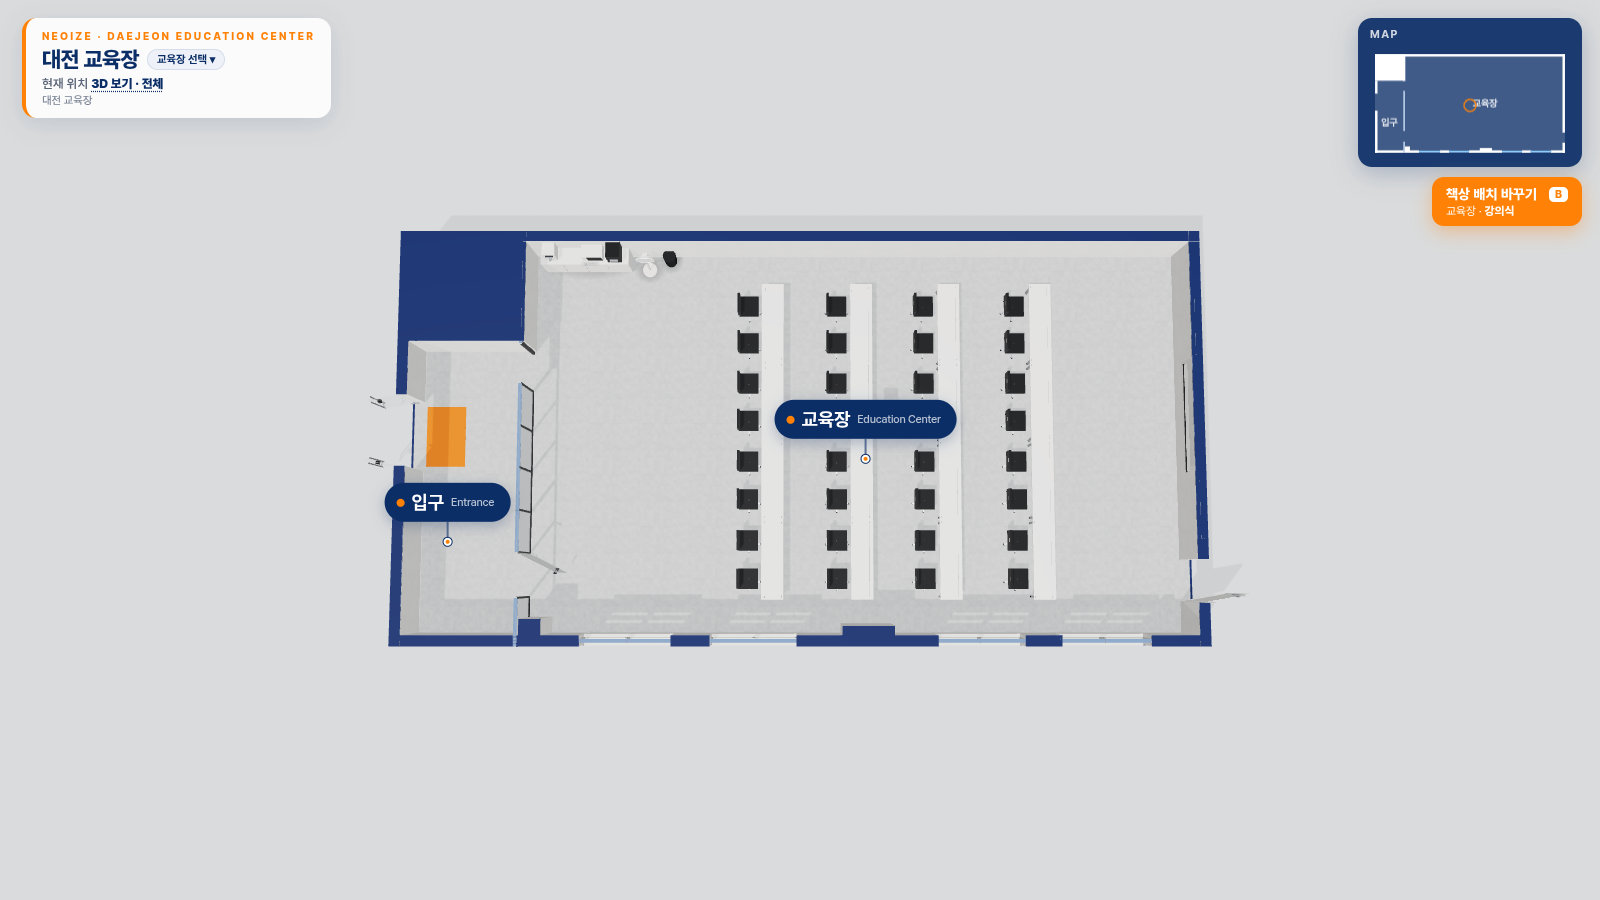
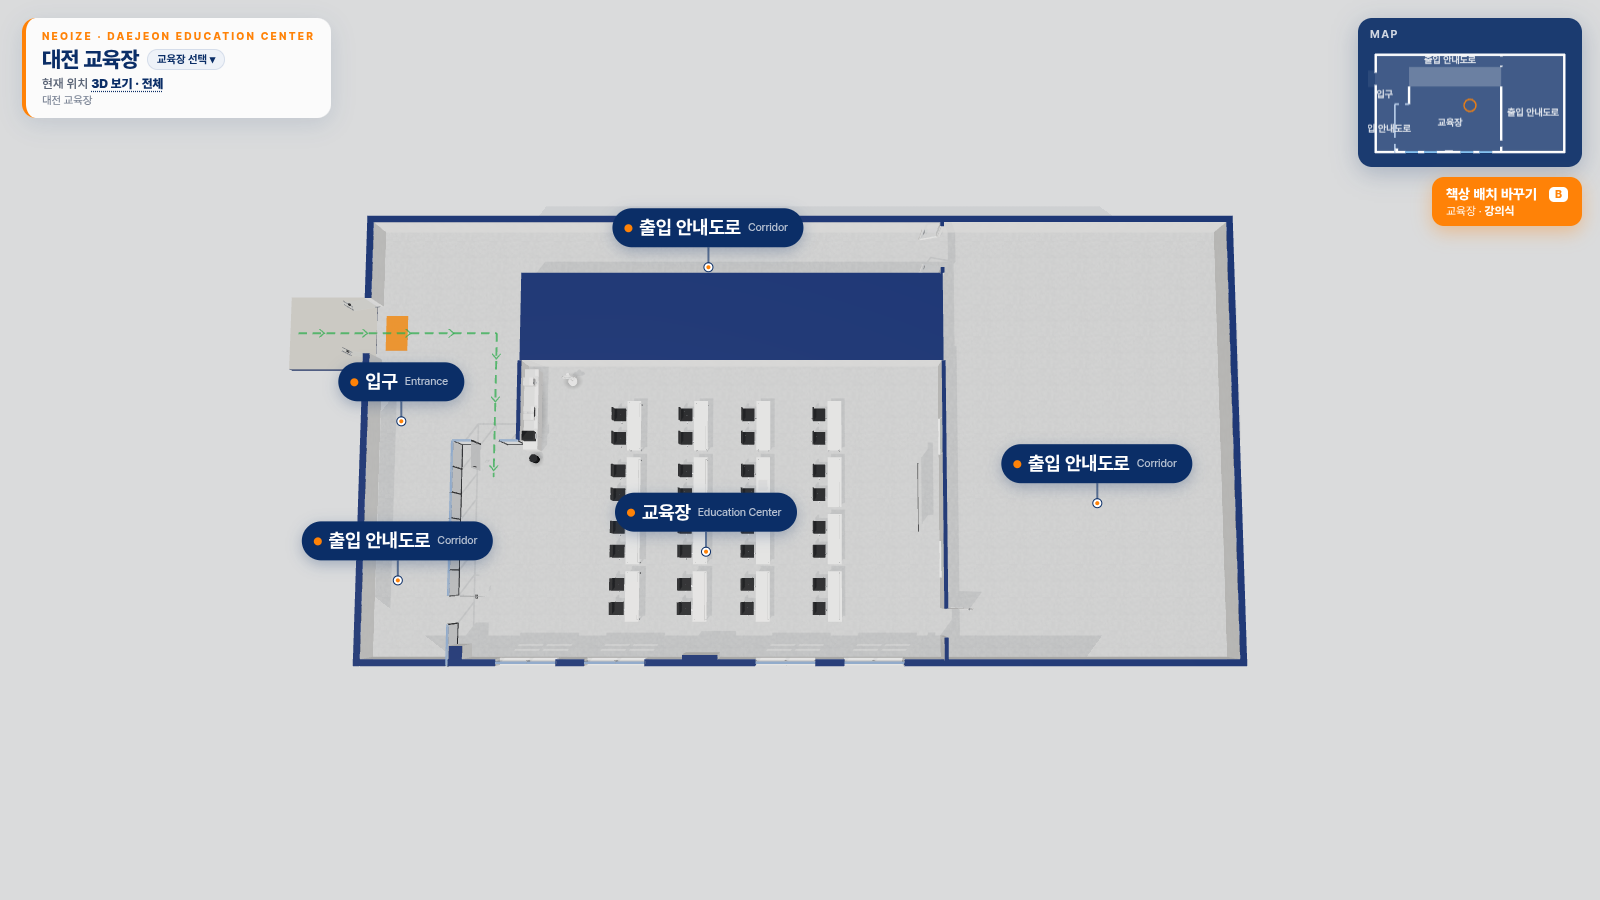
대전 교육장 도면 전체 구현: 건물 외곽·출입 안내도로·다른 공간 블록, L자 교육장, 입구 동선(초록 점선), 북서쪽 정수기·제빙기·커피머신, 책상 4열, 문 5개

Changed region(s): [[0.1562, 0.2178, 0.7812, 0.7467], [0.8438, 0.0622, 0.9688, 0.1867]]

diff --git a/sites/daejeon/layout.js b/sites/daejeon/layout.js
@@ -1,73 +1,97 @@
 /* =====================================================================
    대전 교육장 — 공간 설정 파일 (sites/daejeon/layout.js)
-   사용자 스케치(11/19) 기준: 책상 1.8m ≈ 36px → 약 0.05 m/px.
-   기준점(0,0) = 스케치 px (122, 147). x = 동쪽, z = 남쪽, 단위 m. rot: 0 = 북쪽, 90 = 서쪽, 180 = 남쪽, -90 = 동쪽.
-   - 교육장(빨간 선): x 2.75–17.95, z 0–9.25 (15.2 × 9.25m, 천장 2.7m)
-   - 입구·통로(흰 선, 교육장 서쪽): x 0–2.75, z 2.5–9.25 — 투어는 여기서 시작, 서쪽 벽 문으로 교육장에 들어감
-   - 스크린은 동쪽 벽 → 책상은 동쪽을 바라봄
-   ※ 치수는 스케치 비율로 잡은 추정값이에요. 실측값을 받으면 숫자만 바꾸면 됩니다.
+   사용자 도면(11/19, 534×277px) 기준: 교육장 윗부분 px x153–348 = 15.2m → 0.078 m/px.
+   기준점(0,0) = 도면 px (81, 23) = 건물 북서쪽 모서리. x = 동쪽, z = 남쪽, 단위 m.
+   rot: 0 = 북쪽, 90 = 서쪽, 180 = 남쪽, -90 = 동쪽.  (px → m: x=(px-81)*0.078, z=(py-23)*0.078)
+   - 건물 전체: 31.36 × 16.15m (px x81–483, y23–230), 천장 2.7m
+   - 교육장(빨간 선, L자): 윗부분 x5.62–20.83 z5.30–8.19 + 아랫부분 x3.28–20.83 z8.19–16.15
+   - 출입 안내도로(복도): 북쪽 띠 z0–5.30, 서쪽 x0–3.28, 동쪽 x20.83–31.36
+   - 북쪽 띠 안의 흰 상자(px x153–348, y50–91) = 다른 공간(투어 제외) → columns 의 label 블록
+   - 입구: 서쪽 바깥벽 z3.05–5.05 유리 양문 → 동쪽으로 x4.45 → 남쪽으로 교육장 북서쪽 문(z8.19)
+   ※ 도면 비율로 잡은 추정값이에요. 실측값을 받으면 숫자만 바꾸면 됩니다.
    ===================================================================== */
 window.LAYOUT = {
-  building: { name: '대전 교육장', width: 17.95, depth: 9.25, ceiling: 2.7, eye: 1.6, wall: { exterior: 0.24, interior: 0.14, thick: 0.30 } },
+  building: { name: '대전 교육장', width: 31.36, depth: 16.15, ceiling: 2.7, eye: 1.6, wall: { exterior: 0.24, interior: 0.14, thick: 0.30 } },
   photoDir: 'sites/daejeon/photos/',
 
+  // 건물 밖(입구 앞) 걸을 수 있는 바닥 — 도면의 점선 '경로'가 바깥(px x55)에서 들어옴
+  outside: [ [-3.2, 2.7, 0, 5.4] ],
+
   rooms: [
-    { id:'entrance', name:'입구', en:'Entrance', small:true, rect:[0, 2.5, 2.75, 9.25], floor:'floor',
-      label:[1.375, 6.4], jump:{ x:1.0, z:4.6, look:[2.75, 8.0] },
-      card:{ photos:[], desc:'대전 교육장 입구와 통로예요. 통로 오른쪽(동쪽) 유리 파티션의 문으로 교육장에 들어가요.' } },
-    { id:'classroom', name:'교육장', en:'Education Center', rect:[2.75, 0, 17.95, 9.25], floor:'floor',
-      label:[10.4, 4.6], jump:{ x:4.2, z:7.75, look:[17.9, 4.2] },
+    { id:'classroom', name:'교육장', en:'Education Center', rect:[3.28, 8.19, 20.83, 16.15], rects:[[5.62, 5.30, 20.83, 8.19]], floor:'floor',
+      label:[12.4, 11.2], jump:{ x:7.4, z:13.4, look:[19.9, 10.2] },
       card:{ photos:[],
-             desc:'대전 교육장. 동쪽 벽에 천장형 전동 스크린과 양옆 유리 화이트보드, 천장 빔프로젝터가 있고, 남쪽은 큰 창문이에요. 흰 접이식 책상 4열 × 4개, 메시 등받이 의자. 북서쪽 모서리에 커피머신·정수기가 있는 수납장이 있어요.',
-             services:['전동 스크린','빔프로젝터','유리 화이트보드','스피커','냉난방','커피머신','정수기'] } }
+             desc:'대전 교육장(L자 공간). 동쪽 벽 앞에 천장형 전동 스크린과 양옆 유리 화이트보드, 천장 빔프로젝터가 있고, 남쪽은 큰 창문 4개예요. 흰 접이식 책상 4열 × 4개(32석), 메시 등받이 의자. 북서쪽 벽을 따라 정수기 · 제빙기 · 커피머신이 있어요.',
+             services:['전동 스크린','빔프로젝터','유리 화이트보드','스피커','냉난방','정수기','제빙기','커피머신'] } },
+    { id:'entrance', name:'입구', en:'Entrance', small:true, rect:[0, 2.11, 5.62, 8.19], rects:[[-3.2, 2.7, 0, 5.4]], floor:'floor',
+      label:[1.6, 6.6], jump:{ x:-1.7, z:4.05, look:[4.45, 4.3] },
+      card:{ photos:[], desc:'건물 입구예요. 바닥의 초록 점선(경로)을 따라 동쪽으로 간 뒤 남쪽으로 꺾으면 교육장 북서쪽 문이 있어요.' } },
+    { id:'road_w', name:'출입 안내도로', en:'Corridor', small:true, rect:[0, 8.19, 3.28, 16.15], floor:'floor', label:[1.64, 12.2],
+      jump:{ x:1.6, z:10.0, look:[1.6, 15.0] }, card:{ photos:[], desc:'교육장 서쪽 복도. 동쪽 유리 파티션 문으로 교육장에 들어가요.' } },
+    { id:'road_n', name:'출입 안내도로', en:'Corridor', small:true, rect:[0, 0, 20.83, 2.11], floor:'floor', label:[12.4, 1.05],
+      jump:{ x:6.0, z:1.05, look:[20.0, 1.05] }, card:{ photos:[], desc:'북쪽 복도. 동쪽 끝 문으로 동쪽 복도와 이어져요.' } },
+    { id:'road_e', name:'출입 안내도로', en:'Corridor', small:true, rect:[20.83, 0, 31.36, 16.15], floor:'floor', label:[26.1, 9.5],
+      jump:{ x:22.2, z:14.6, look:[20.83, 14.6] }, card:{ photos:[], desc:'동쪽 복도. 서쪽 벽 남쪽 끝 문으로 교육장에 들어가요.' } }
   ],
 
   start: { mode:'orbit', room:'entrance' },
 
+  // 바닥 동선: 초록 점선 + 화살표 (바깥 → 입구 → 동쪽 → 남쪽 → 교육장 문)
+  route: { color:'#2fa84f', points:[[-2.9, 4.05], [4.45, 4.05], [4.45, 8.19], [4.45, 9.4]] },
+
   walls: [
-    // 바깥벽 — 북쪽 (교육장 구간만, 북서쪽 x0–2.75 는 다른 공간이라 막음 → columns)
-    { from:[2.75, 0], to:[17.95, 0], type:'solid', outer:true },
-    // 바깥벽 — 서쪽(입구 통로): 유리 양문 입구
-    { from:[0, 2.5], to:[0, 9.25], type:'solid', outer:true,
-      openings:[ { at:3.7, width:1.6, door:'glass', double:true, entrance:true, frame:'white' } ] },
-    // 바깥벽 — 남쪽: 초록 = 창문 4개 (흰 프레임 큰 여닫이창)
-    { from:[0, 9.25],     to:[4.15, 9.25],  type:'solid',  outer:true },
-    { from:[4.15, 9.25],  to:[6.15, 9.25],  type:'window', outer:true, style:'tall', sill:0.75, head:2.45, bay:1.0, blind:0 },
-    { from:[6.15, 9.25],  to:[7.0, 9.25],   type:'solid',  outer:true },
-    { from:[7.0, 9.25],   to:[8.9, 9.25],   type:'window', outer:true, style:'tall', sill:0.75, head:2.45, bay:1.0, blind:0 },
-    { from:[8.9, 9.25],   to:[12.0, 9.25],  type:'solid',  outer:true },
-    { from:[12.0, 9.25],  to:[13.9, 9.25],  type:'window', outer:true, style:'tall', sill:0.75, head:2.45, bay:1.0, blind:0 },
-    { from:[13.9, 9.25],  to:[14.7, 9.25],  type:'solid',  outer:true },
-    { from:[14.7, 9.25],  to:[16.65, 9.25], type:'window', outer:true, style:'tall', sill:0.75, head:2.45, bay:1.0, blind:0 },
-    { from:[16.65, 9.25], to:[17.95, 9.25], type:'solid',  outer:true },
-    // 바깥벽 — 동쪽: 스크린 벽, 남쪽 끝에 문
-    { from:[17.95, 0], to:[17.95, 9.25], type:'solid', outer:true,
-      openings:[ { at:7.35, width:0.95, door:'wood', frame:'white', hinge:'end', swing:-80 } ] },
-    // 교육장 서쪽 벽: 북쪽 끝은 벽, 그 아래는 반투명 유리 슬라이딩 파티션(북서쪽 통로 개구부 + 남쪽 끝 문)
-    { from:[2.75, 0], to:[2.75, 2.5], type:'solid' },
-    { from:[2.75, 2.5], to:[2.75, 9.25], type:'glass', style:'band', band:[0.1, 2.3], bay:1.0,
-      openings:[ { at:2.55, width:0.9 },                                             // 북서쪽 개구부(통로 쪽)
-                 { at:7.2, width:1.0, door:'frameless', hinge:'start', swing:88 } ] }  // 교육장 문 (스케치 y285–315): 북쪽 경첩, 교육장 안으로 88° 열려 통로를 막지 않음
+    // 바깥벽
+    { from:[0, 0], to:[31.36, 0], type:'solid', outer:true },
+    { from:[31.36, 0], to:[31.36, 16.15], type:'solid', outer:true },
+    { from:[0, 0], to:[0, 16.15], type:'solid', outer:true,
+      openings:[ { at:3.05, width:2.0, door:'glass', double:true, entrance:true, frame:'white', open:true } ] },   // 입구 (px y62–88)
+    // 남쪽: 초록 = 창문 4개 (px 145–172, 185–212, 262–289, 302–329)
+    { from:[0, 16.15],     to:[4.99, 16.15],  type:'solid',  outer:true },
+    { from:[4.99, 16.15],  to:[7.10, 16.15],  type:'window', outer:true, style:'tall', sill:0.75, head:2.45, bay:1.05, blind:0 },
+    { from:[7.10, 16.15],  to:[8.11, 16.15],  type:'solid',  outer:true },
+    { from:[8.11, 16.15],  to:[10.22, 16.15], type:'window', outer:true, style:'tall', sill:0.75, head:2.45, bay:1.05, blind:0 },
+    { from:[10.22, 16.15], to:[14.12, 16.15], type:'solid',  outer:true },
+    { from:[14.12, 16.15], to:[16.22, 16.15], type:'window', outer:true, style:'tall', sill:0.75, head:2.45, bay:1.05, blind:0 },
+    { from:[16.22, 16.15], to:[17.24, 16.15], type:'solid',  outer:true },
+    { from:[17.24, 16.15], to:[19.34, 16.15], type:'window', outer:true, style:'tall', sill:0.75, head:2.45, bay:1.05, blind:0 },
+    { from:[19.34, 16.15], to:[31.36, 16.15], type:'solid',  outer:true },
+
+    // 북쪽 복도 동쪽 끝 문 (px x345, y28–50)
+    { from:[20.83, 0], to:[20.83, 2.11], type:'solid',
+      openings:[ { at:0.4, width:1.5, door:'glass', double:true, frame:'white' } ] },
+    // 교육장 윗부분 서쪽 벽 (정수기·제빙기·커피머신이 붙는 벽)
+    { from:[5.62, 5.30], to:[5.62, 8.19], type:'solid' },
+    // L자 꺾인 곳의 북쪽 벽 = 교육장 북서쪽 문 (입구 경로 끝, px x123–150)
+    { from:[3.28, 8.19], to:[5.62, 8.19], type:'glass', style:'band', band:[0.1, 2.3], bay:1.0,
+      openings:[ { at:3.95, width:1.0, door:'frameless', hinge:'start', swing:-88 } ] },
+    // 아랫부분 서쪽 벽: 반투명 유리 파티션 + 서쪽 복도 문 (px y193–217)
+    { from:[3.28, 8.19], to:[3.28, 16.15], type:'glass', style:'band', band:[0.1, 2.3], bay:1.0,
+      openings:[ { at:13.7, width:1.0, door:'frameless', hinge:'start', swing:88 } ] },
+    // 동쪽 벽 + 동쪽 복도 문 (px y200–222) — 복도 쪽으로 열림
+    { from:[20.83, 5.30], to:[20.83, 16.15], type:'solid',
+      openings:[ { at:14.15, width:1.0, door:'wood', frame:'white', hinge:'start', swing:88 } ] }
   ],
 
-  // 막힌 덩어리: 북서쪽 다른 공간, 남쪽 벽 흰 기둥, 남서쪽 모서리 흰 사각 기둥
+  // 막힌 덩어리: 북쪽 띠 안의 다른 공간(투어 제외), 남쪽 벽 흰 기둥, 남서쪽 모서리 흰 사각 기둥
   columns: [
-    { rect:[0, 0, 2.75, 2.5] },
-    { rect:[9.9, 8.8, 11.05, 9.13] },
-    { rect:[2.82, 8.65, 3.3, 9.13] }
+    { rect:[5.62, 2.11, 20.83, 5.30], block:true },   // 다른 공간(투어 제외)
+    { rect:[11.54, 15.75, 12.79, 16.03] },
+    { rect:[3.35, 15.44, 3.82, 16.03] }
   ],
 
   ceiling: {
-    panels: [ { rect:[2.75, 0, 17.95, 9.25], nx:6, nz:3 }, { rect:[0, 2.5, 2.75, 9.25], nx:1, nz:2 } ],   // 사각 매입 LED 패널
+    panels: [ { rect:[3.28, 8.19, 20.83, 16.15], nx:7, nz:3 }, { rect:[5.62, 5.30, 20.83, 8.19], nx:6, nz:1 },
+              { rect:[0, 2.11, 5.62, 8.19], nx:2, nz:2 }, { rect:[0, 8.19, 3.28, 16.15], nx:1, nz:3 },
+              { rect:[0, 0, 20.83, 2.11], nx:7, nz:1 }, { rect:[20.83, 0, 31.36, 16.15], nx:3, nz:5 } ],
     strips: [],
-    projectors: [ { x:10.6, z:4.2, aim:[17.6, 4.2], drop:0.3, color:'white', label:'빔프로젝트' } ],
+    projectors: [ { x:14.0, z:10.2, aim:[19.9, 10.2], drop:0.3, color:'white', label:'빔프로젝트' } ],
     downlights: [],
-    aircon: [[6.6, 4.6, 0.9], [13.6, 4.6, 0.9]]   // 천장 카세트 에어컨 2대
+    aircon: [[10.8, 10.2, 0.9], [16.9, 12.6, 0.9]]
   },
 
   speakers: [   // 스크린 쪽 양옆 벽(북·남) 높은 곳
-    { x:16.9, z:0.24, rot:180 },
-    { x:16.9, z:9.01, rot:0 }
+    { x:19.9, z:5.42, rot:180 },
+    { x:19.9, z:15.91, rot:0 }
   ],
 
   /* 교육장 책상 배치 (책상 배치 바꾸기 버튼 / B 키). 스크린이 동쪽이라 책상은 rot:-90(동쪽을 봄) */
@@ -75,44 +99,44 @@ window.LAYOUT = {
     start: 0,
     list: [
       { id:'lecture', name:'강의식', items:[
-        // 스케치: 4열 × 흰 접이식 책상 4개(1.8×0.5m) 이어 붙임, 책상마다 의자 2개(서쪽에서 동쪽을 봄) = 32석
-        { type:'array', xs:[8.35, 10.375, 12.375, 14.475], zs:[1.95, 3.75, 5.55, 7.35],
+        // 도면: 4열(px x200–210, 231–241, 260–270, 293–303) × 책상 4개(px y107–212), 책상마다 의자 2개(동쪽을 봄) = 32석
+        { type:'array', xs:[9.67, 12.09, 14.35, 16.93], zs:[7.58, 9.63, 11.68, 13.73],
           item:{ type:'deskPair', w:1.8, d:0.5, chairs:2, casters:true, tag:true, chairBase:'silver', rot:-90 } }
       ] },
       { id:'group', name:'조별', items:[
-        // 책상 2개를 붙인 섬(긴 변이 스크린 방향), 양쪽에 2명씩 = 9섬 × 4명 = 36석
-        { type:'array', xs:[6.9, 10.0, 13.1], zs:[2.0, 4.6, 7.2], item:{ type:'island', len:1.8, dd:0.5, perSide:2, basket:true, tents:true, rot:90 } }
+        { type:'array', xs:[9.0, 12.2, 15.4], zs:[7.4, 10.0, 12.6], item:{ type:'island', len:1.8, dd:0.5, perSide:2, basket:true, tents:true, rot:90 } }
       ] }
     ]
   },
 
   /* 장비 안내(마우스를 올리면 안내 카드) — '(예: …) — 수정 필요' 는 예시 문구예요 */
   equipment: [
-    { id:'dj_projector', name:'빔프로젝트', room:'교육장', box:[10.3, 3.9, 10.9, 4.5, 2.15, 2.7],
+    { id:'dj_projector', name:'빔프로젝트', room:'교육장', box:[13.7, 9.9, 14.3, 10.5, 2.15, 2.7],
       lines:['연결 케이블: (예: HDMI) — 수정 필요', '리모컨 위치: (예: 수납장 위) — 수정 필요', '사용 방법: (예: 전원 → 입력 선택) — 수정 필요'] },
-    { id:'dj_screen', name:'전동 스크린', room:'교육장', box:[17.4, 2.9, 17.8, 5.5, 1.05, 2.7], lines:['내리기/올리기: (예: 벽 스위치) — 수정 필요'] },
-    { id:'dj_board', name:'유리 화이트보드', room:'교육장', boxes:[[17.65, 1.4, 17.86, 2.9, 0.8, 2.2], [17.65, 5.5, 17.86, 7.0, 0.8, 2.2]], lines:['마커·지우개: (예: 레지 위 비치) — 수정 필요'] },
-    { id:'dj_speaker', name:'스피커', room:'교육장', boxes:[[16.6, 0.1, 17.2, 0.5, 2.2, 2.7], [16.6, 8.75, 17.2, 9.15, 2.2, 2.7]], lines:['음량 조절: (예: 앰프 위치) — 수정 필요', '마이크: (예: 무선 마이크) — 수정 필요'] },
-    { id:'dj_ac', name:'에어컨', room:'교육장', boxes:[[6.1, 4.1, 7.1, 5.1, 2.5, 2.75], [13.1, 4.1, 14.1, 5.1, 2.5, 2.75]], lines:['리모컨/조작: (예: 벽 컨트롤러) — 수정 필요'] },
-    { id:'dj_coffee', name:'커피머신', room:'교육장', box:[4.58, 0.12, 4.92, 0.64, 0.85, 1.42], label:true, labelAt:[4.75, 1.5, 0.72], lines:['사용 방법: (예: 컵 올리고 버튼) — 수정 필요'] },
-    { id:'dj_ice', name:'얼음/전자레인지', room:'교육장', box:[4.0, 0.12, 4.5, 0.64, 0.85, 1.2], label:true, labelAt:[4.25, 1.3, 0.72], lines:['사용 방법: 예시 — 수정 필요'] },
-    { id:'dj_water', name:'정수기', room:'교육장', box:[3.15, 0.12, 3.45, 0.64, 0.85, 1.4], label:true, labelAt:[3.3, 1.5, 0.72], lines:['냉수·온수: (예: 온수 잠금 버튼) — 수정 필요'] },
-    { id:'dj_clock', name:'디지털 시계', room:'교육장', box:[3.8, 0.1, 4.3, 0.2, 1.85, 2.15], lines:['수납장 위 벽 LED 시계'] }
+    { id:'dj_screen', name:'스크린', room:'교육장', box:[19.75, 8.95, 20.05, 11.45, 1.05, 2.7], label:true, labelAt:[19.9, 2.62, 10.2], lines:['전동 스크린 내리기/올리기: (예: 벽 스위치) — 수정 필요'] },
+    { id:'dj_board', name:'유리 화이트보드', room:'교육장', boxes:[[20.6, 7.3, 20.8, 8.7, 0.8, 2.2], [20.6, 11.7, 20.8, 13.1, 0.8, 2.2]], lines:['마커·지우개: (예: 레지 위 비치) — 수정 필요'] },
+    { id:'dj_speaker', name:'스피커', room:'교육장', boxes:[[19.6, 5.3, 20.2, 5.7, 2.2, 2.7], [19.6, 15.63, 20.2, 16.03, 2.2, 2.7]], lines:['음량 조절: (예: 앰프 위치) — 수정 필요', '마이크: (예: 무선 마이크) — 수정 필요'] },
+    { id:'dj_ac', name:'에어컨', room:'교육장', boxes:[[10.3, 9.7, 11.3, 10.7, 2.5, 2.75], [16.4, 12.1, 17.4, 13.1, 2.5, 2.75]], lines:['리모컨/조작: (예: 벽 컨트롤러) — 수정 필요'] },
+    // 북서쪽 벽(px x157–170)을 따라 북 → 남: 정수기(y95–106) · 제빙기(y110–120) · 커피머신(y120–131)
+    { id:'dj_water', name:'정수기', room:'교육장', box:[5.74, 5.89, 6.16, 6.21, 0.85, 1.4], label:true, labelAt:[5.95, 1.5, 6.05], lines:['냉수·온수: (예: 온수 잠금 버튼) — 수정 필요'] },
+    { id:'dj_ice', name:'제빙기', room:'교육장', box:[5.74, 6.92, 6.16, 7.44, 0.85, 1.2], label:true, labelAt:[5.95, 1.3, 7.18], lines:['사용 방법: (예: 스쿱은 옆 걸이) — 수정 필요'] },
+    { id:'dj_coffee', name:'커피머신', room:'교육장', box:[5.72, 7.82, 6.18, 8.18, 0.85, 1.42], label:true, labelAt:[5.95, 1.5, 8.0], lines:['사용 방법: (예: 컵 올리고 버튼) — 수정 필요'] },
+    { id:'dj_clock', name:'디지털 시계', room:'교육장', box:[5.69, 6.75, 5.82, 7.25, 1.85, 2.15], lines:['수납장 위 벽 LED 시계'] }
   ],
 
   furniture: [
-    /* --- 스크린 벽(동쪽): 천장형 전동 스크린 + 양옆 작은 유리 화이트보드 --- */
-    { type:'ceilingScreen', x:17.6, z:4.2, w:2.4, h:1.45, rot:90 },
-    { type:'whiteboard', x:17.81, z:2.15, w:1.3, rot:90, style:'glass' },
-    { type:'whiteboard', x:17.81, z:6.25, w:1.3, rot:90, style:'glass' },
+    /* --- 스크린(동쪽 벽 앞, 도면 px x333–339): 천장형 전동 스크린 + 벽의 유리 화이트보드 2개 --- */
+    { type:'ceilingScreen', x:19.9, z:10.2, w:2.4, h:1.45, rot:90 },
+    { type:'whiteboard', x:20.74, z:8.0, w:1.3, rot:90, style:'glass' },
+    { type:'whiteboard', x:20.74, z:12.4, w:1.3, rot:90, style:'glass' },
 
-    /* --- 북서쪽 모서리: 흰 낮은 수납장(커피머신·얼음/전자레인지·정수기) + LED 시계 + 선풍기 + 휴지통 --- */
-    { type:'coffeeCabinet', x:4.05, z:0.37, w:2.0, rot:180 },
-    { type:'ledClock', x:4.05, z:0.13, y:1.85, rot:180 },
-    { type:'standFan', x:5.45, z:0.55, rot:180 },
-    { type:'bin', x:5.95, z:0.35 },
+    /* --- 북서쪽 벽 수납장: 북 → 남 정수기 · 제빙기 · 커피머신 (앞면이 동쪽) + LED 시계 + 선풍기 + 휴지통 --- */
+    { type:'coffeeCabinet', x:5.95, z:7.0, w:2.9, rot:-90, waterAt:-0.95, iceAt:0.18, coffeeAt:1.0 },
+    { type:'ledClock', x:5.71, z:7.0, y:1.85, rot:-90 },
+    { type:'standFan', x:7.3, z:5.85, rot:180 },
+    { type:'bin', x:6.0, z:8.75 },
 
-    /* --- 입구 통로 --- */
-    { type:'mat', x:0.75, z:4.5, w:0.9, d:1.4, color:'orange' }
+    /* --- 입구 --- */
+    { type:'mat', x:0.75, z:4.05, w:0.8, d:1.3, color:'orange' }
   ]
 };

diff --git a/sites/sites.js b/sites/sites.js
@@ -8,7 +8,7 @@ window.SITES = [
     title:'네오비즈니스 3D 투어', brand:'NEOIZE · NEOFUL BUSINESS SPACE', addr:'서울시 구로구 디지털로26길 43, L동 210호 (2F)',
     desc:'교육장 55㎡ · 30명 / 회의실 23㎡ · 12명 / 소회의실 · NEOBOX · 라운지', thumb:'shot_plan.png' },
   { id:'daejeon', name:'대전 교육장', sub:'Daejeon Education Center', ready:true,
-    title:'대전 교육장', brand:'NEOIZE · DAEJEON EDUCATION CENTER', addr:'대전 교육장', desc:'교육장 1실 · 책상 4열(32석 배치) · 전동 스크린 · 빔프로젝터', thumb:'shot_dj_plan.png' },
+    title:'대전 교육장', brand:'NEOIZE · DAEJEON EDUCATION CENTER', addr:'대전 교육장', desc:'L자 교육장 1실 · 책상 4열(32석) · 전동 스크린 · 정수기·제빙기·커피머신 · 입구 동선 안내', thumb:'shot_dj_plan.png' },
   { id:'busan',   name:'부산 교육장', sub:'Busan Education Center', ready:false,
     title:'부산 교육장 3D 투어', brand:'NEOIZE · BUSAN', addr:'부산 (주소 준비 중)', desc:'사진·도면 반영 후 공개 예정' }
 ];

diff --git a/index.html b/index.html
@@ -178,10 +178,10 @@ a.pk-card:hover{transform:translateY(-4px);box-shadow:0 16px 36px rgba(11,46,103
   </div>
 </aside>
 <!-- 교육장 목록: sites/sites.js / 교육장별 공간 설정: sites/<id>/layout.js (치수·가구 배치는 거기서 수정) -->
-<script src="sites/sites.js?v=11191520"></script>
+<script src="sites/sites.js?v=11191600"></script>
 <script type="importmap">{"imports":{"three":"./lib/three.module.min.js","three/addons/":"./lib/addons/"}}</script>
 <script type="module">
-const V = '11191500', SITES = window.SITES || [], q = new URLSearchParams(location.search);
+const V = '11191600', SITES = window.SITES || [], q = new URLSearchParams(location.search);
 let id = q.get('site');
 if (!id && [...q.keys()].length) id = 'seoul';            // 예전 링크(?room=… 등)는 서울 구로로
 const S = SITES.find((s) => s.id === id);

diff --git a/수정방법.md b/수정방법.md
@@ -7,7 +7,13 @@
   - `sites/<id>/layout.js` : 교육장별 공간 설정(아래 설명은 모두 이 파일 기준). 서울 구로는 `sites/seoul/layout.js`.
   - `app.js`, `textures.js` : 모든 교육장이 같이 쓰는 3D 엔진 — 여기를 고치면 세 곳 모두 바뀌어요.
   - 방 카드 사진 폴더는 layout 의 `photoDir`(기본 `photos/`).
-- 대전 교육장(`sites/daejeon/layout.js`): 스케치 비율(약 0.05 m/px)로 잡은 추정 치수 — 교육장 x2.75–17.95, z0–9.25(15.2×9.25m), 서쪽 입구 통로 x0–2.75, z2.5–9.25. 스크린은 동쪽 벽, 책상 4열×4개(강의식 32석)/조별 배치. 실측값·주소를 받으면 숫자와 `sites/sites.js` 의 addr 만 바꾸면 돼요.
+- 대전 교육장(`sites/daejeon/layout.js`, 11/19 상세 도면 534×277px, 0.078 m/px, 기준점 = 도면 px(81,23)): 건물 31.36×16.15m.
+  - 교육장(L자): 윗부분 x5.62–20.83 z5.30–8.19 + 아랫부분 x3.28–20.83 z8.19–16.15. 방 영역이 두 개라 rooms 에 `rects:[...]`(추가 영역)를 씀 — 미니맵·현재 위치에 같이 반영.
+  - 출입 안내도로: 북쪽 띠(z0–5.30), 서쪽(x0–3.28), 동쪽(x20.83–31.36). 북쪽 띠 안 흰 상자 = `columns` 의 `block:true`(다른 공간, 미니맵 옅은 회색).
+  - 문(전부 E 키): 입구 유리 양문(서쪽 바깥벽 z3.05–5.05, 처음부터 열림) · 교육장 북서쪽 문(z8.19, x3.95–4.95) · 서쪽 복도 문(x3.28, z13.7–14.7) · 동쪽 복도 문(x20.83, z14.15–15.15) · 북쪽 복도 동쪽 끝 문(x20.83, z0.4–1.9).
+  - `outside: [[x0,z0,x1,z1]]` = 건물 밖 걸을 수 있는 바닥(입구 앞). `route: { points:[[x,z],...] }` = 바닥 초록 점선 + 화살표 동선. 걷기 시작점 = rooms 의 entrance jump(입구 바깥).
+  - 북서쪽 벽 수납장(`coffeeCabinet`, rot:-90): 북→남 정수기 · 제빙기 · 커피머신. 위치는 `waterAt / iceAt / coffeeAt`(수납장 가운데 기준 m)로 조정.
+  - 책상 4열(x9.67, 12.09, 14.35, 16.93) × 4개(z7.58–13.73), 스크린은 동쪽 벽 앞 x19.9 (z10.2). 실측값·주소를 받으면 숫자와 `sites/sites.js` 의 addr 만 바꾸면 돼요.
 - 장비 안내 카드는 마우스(걷기 중엔 화면 가운데 조준점)가 닿은 장비 상자 윗면 바로 위에 떠요(이름표가 있으면 그 위).
 - 교육장 추가하기: ① `sites/새id/layout.js` 를 서울 파일을 복사해 만들고 ② `sites/sites.js` 에 `{ id:'새id', name, sub, ready:true, title, brand, addr, desc, thumb }` 한 줄 추가 ③ index.html·app.js 의 `?v=` 숫자 올리기.
 
